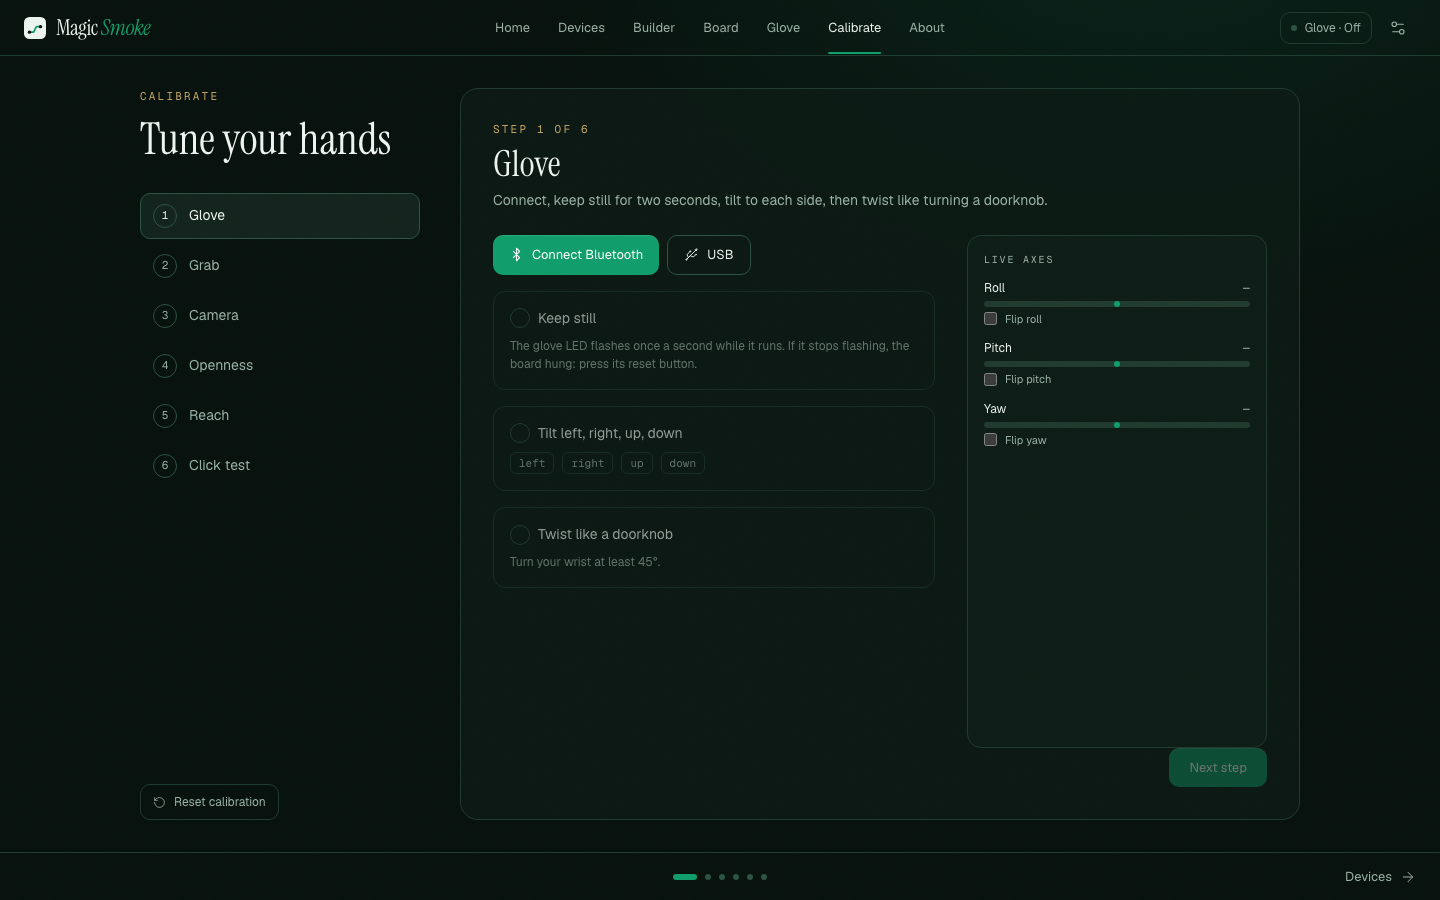
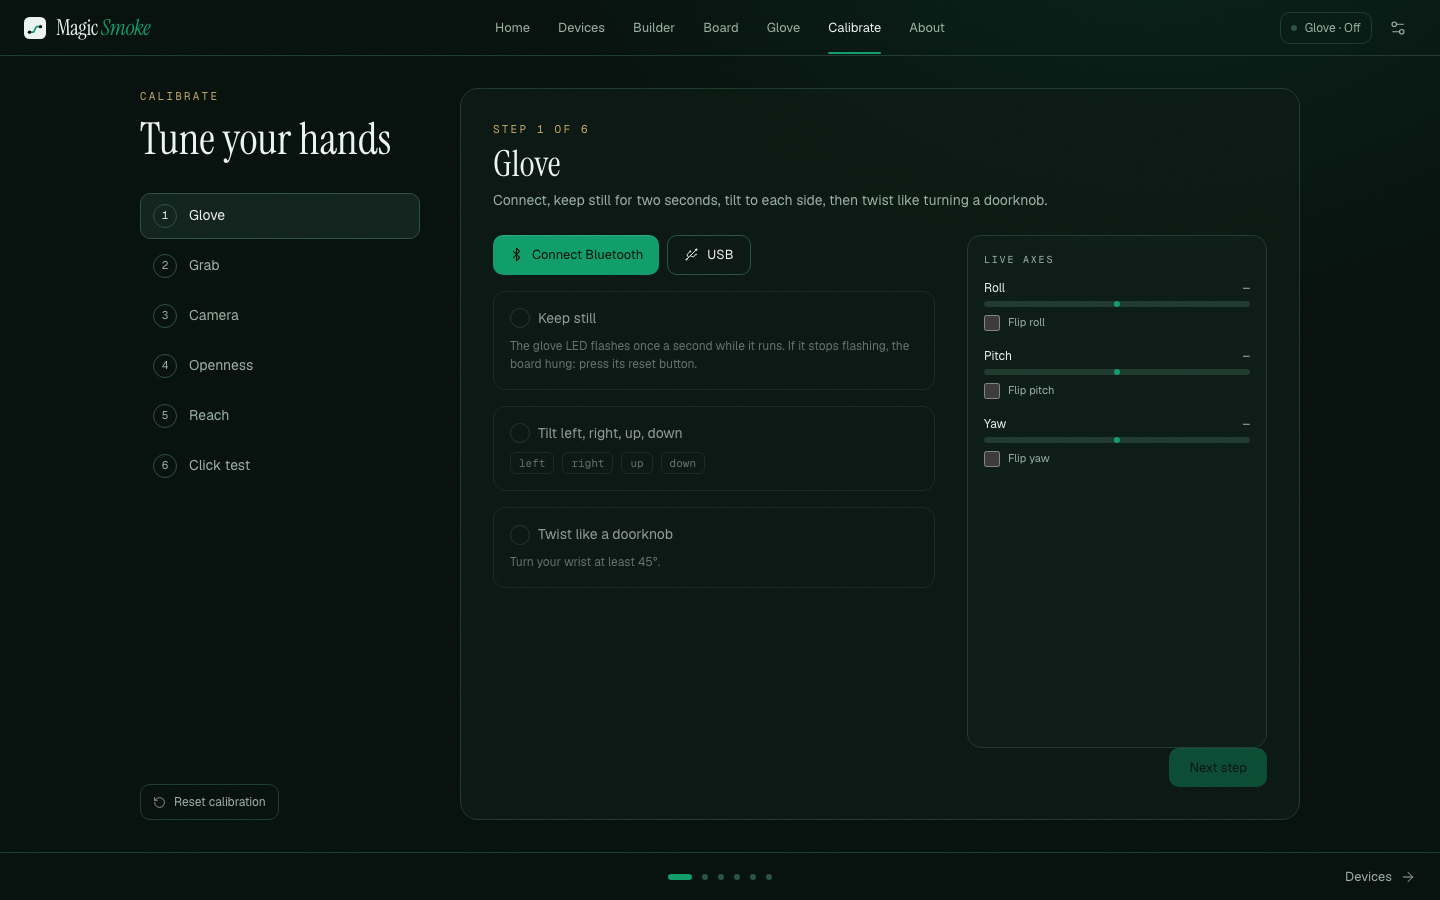
V4: accessibility audit merged, voice toast contrast, final STATUS

Changed region(s): [[0.6562, 0.3422, 0.875, 0.5289], [0.375, 0.28, 0.4375, 0.3111]]

diff --git a/components/input/VoiceController.tsx b/components/input/VoiceController.tsx
@@ -130,7 +130,7 @@ export function VoiceController() {
 
   if (!listening && !result) return null;
   return (
-    <div className="pointer-events-none fixed bottom-16 left-1/2 z-50 flex -translate-x-1/2 animate-fade items-center gap-2 rounded-full bg-copper px-4 py-2 text-[13px] text-white shadow-[var(--shadow-float)]" role="status" aria-live="polite">
+    <div className="pointer-events-none fixed bottom-16 left-1/2 z-50 flex -translate-x-1/2 animate-fade items-center gap-2 rounded-[10px] bg-copper px-4 py-2 text-[13px] text-paper shadow-[var(--shadow-float)]" role="status" aria-live="polite">
       <Mic size={15} strokeWidth={1.5} className={listening ? "animate-pulse text-copper" : ""} />
       {listening ? text || "Listening… release Space when done" : result}
     </div>

diff --git a/PROGRESS.md b/PROGRESS.md
@@ -50,7 +50,7 @@ Stopped here as instructed. Deferred items are listed in STATUS.md.
 - [x] Verification (05:55): lint clean, typecheck clean, 87 unit tests, production build, 67 Playwright tests (every page at 1440x900 and 1280x800 incl. every model category and Calibrate, glove/camera bench, hoop throw, calibration wizard). Fixed on the way: arrow keys could skip the Home slides (input-bus priority), e2e specs updated for V3 names, starter-build budgets
 
 ## V4 (Reliability, Precision, Emerald)
-Next up: merge the guidelines-audit branch, final build + full test run, finalize STATUS.md, push to v4.
+Next up: re-run `npx next build && npx playwright test` after the audit merge (skipped at the owner's request).
 - [x] P0-1 Glove reliability: firmware v4 (Appendix A, verbatim); singleton Bluetooth layer (survives client navigation), auto-reconnect 0.5/1/2/4 s then 5 s for 2 min with re-subscribe, 4 s stall watchdog, queued writes, nav status pill, link log on the Glove tab. Test: e2e/glove-link.spec.ts (fake Web Bluetooth).
 - [x] P0-2 Grab and rotate: glove-only clutch (held switch, or knock toggle with no switch on 3D views), quaternion delta math (qDelta = qGlove·qGlove0⁻¹, target = qDelta·qModel0), 2° dead zone, slerp 0.25/frame, AXIS_MAP + per-axis flips, shake resets, Grabbed chip + emerald ring. Tests: tests/grab.test.ts (11), e2e grab 90° per axis within 5°.
 - [x] P0-3 Continuous palm-openness explode: world-landmark joint-angle curl, per-user range, One Euro (1.0, 0.02), snaps with hysteresis, confidence/palm-facing gates, 300 ms still engage, hold on loss; drives the explode slider with a meter. Tests: tests/openness.test.ts (10, synthetic hands with noise).
@@ -59,5 +59,5 @@ Next up: merge the guidelines-audit branch, final build + full test run, finaliz
 - [x] P0-6 Calibration wizard: 6-step stepper (glove still/tilt/twist with live axes + flip toggles, grab cube, Start hand control, openness range, reach corners, click test with hit rate), saved in localStorage with Reset. Tests: e2e/hand.spec.ts (openness drives slider ±10%; 5/5 targets, 100% hit rate with ±30 px noise). Test page updated (openness meter, snap grid, grab state, heartbeat/stall, reconnect log); e2e/glove-camera.spec.ts.
 - [x] P1-1 Emerald redesign (merged from a subagent worktree; input/glove files recoloured after)
 - [x] P1-2 Motion pass (240 ms rise, hover lift, count-ups, springy pointer ring; reduced motion respected)
-- [~] P2 Polish: RUNDOWN + DECISIONS + STATUS draft done; guidelines audit in a subagent worktree
+- [x] P2 Polish: RUNDOWN, DECISIONS, STATUS; accessibility audit merged (full e2e not re-run after it)
 Skills/connectors used: Playwright (@playwright/test); Opus subagents for the redesign, the test page and the audit. The listed design skills are not installed here (Taste rules were read as text in V2). No MCP connectors were needed.

diff --git a/STATUS.md b/STATUS.md
@@ -36,4 +36,9 @@ Run: `npm install && npm run build && npm start`, then http://localhost:3000 (Ch
 - In headless tests, clicking Connect within ~1 s of page load (before hydration) can be ignored; people are not affected.
 
 ## Final checks
-(filled in at the end)
+- Before the last merge (accessibility audit): lint, typecheck, 114 unit tests, `next build` and all 72 Playwright tests passed.
+- The audit branch was then merged (contrast on emerald buttons now uses dark text, 24 px dot targets, real links for
+  navigation, live regions, magnetic primary buttons). Its own run passed tsc, eslint (app/components), 114 unit tests and
+  `next build`. **The full Playwright suite was not re-run after this merge** (stopped early at the owner's request to
+  save usage). If something fails, the likeliest spots are the Devices cards (now a list item wrapping a link) and the
+  Home "Open a device" link.
